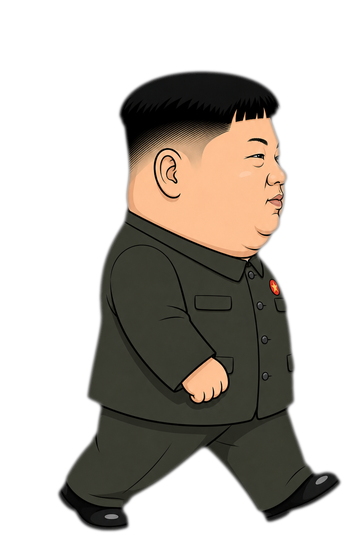
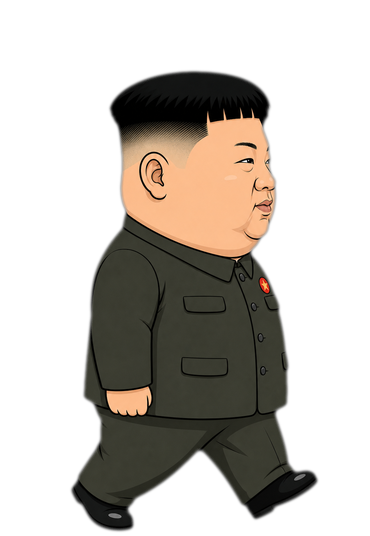
Marche en 4 frames avec pose de passage, rythme plus lent.
Évite le clignotement entre 2 images trop proches ; ancrage torse et walkPhase réseau discret.

diff --git a/src/01c-chars.js b/src/01c-chars.js
@@ -127,13 +127,12 @@ function charPickAnim(b) {
     return "receive";
   }
   if (charWantPanic(b) && charAnimReady(key, "panic")) return "panic";
-  // Marche avec hystérésis — évite idle↔walk qui clignote quand l'IA micro-ajuste.
-  // Slip (Trompette) : seuils plus collants + vx consigne (pas seulement dispVx).
+  // Marche avec hystérésis collante — évite idle↔walk qui clignote.
   const a = animOf(b);
   const disp = (a.slip && typeof b.dispVx === "number") ? b.dispVx : (b.vx || 0);
   const spd = Math.max(Math.abs(disp), a.slip ? Math.abs(b.vx || 0) * 0.85 : 0);
-  const enter = a.slip ? 0.35 : 0.75;
-  const exit = a.slip ? 0.08 : 0.25;
+  const enter = a.slip ? 0.30 : 0.55;
+  const exit = a.slip ? 0.06 : 0.15;
   if (b._walking) {
     if (spd < exit) b._walking = false;
   } else if (spd > enter) {
@@ -151,7 +150,7 @@ function charPickFrame(b, anim) {
   if (!frames || !frames.length) return null;
   let idx = 0;
   if (anim === "walk") {
-    // walkPhase entier (voir Blob.update) — cycle F/B/F/B dans les PNG
+    // walkPhase entier — cycle 4 frames : appui / passage / appui / passage
     idx = Math.floor(Math.abs(b.walkPhase || 0)) % frames.length;
   } else if (anim === "jump") {
     if (b.vy < -2) idx = 0;
@@ -224,18 +223,13 @@ function drawSpriteChar(b) {
   const lockAsp = pack.manifest && pack.manifest.lockAspect;
   const aspect = lockAsp || (img.naturalWidth / img.naturalHeight);
   const w = h * aspect * scaleX;
-  // Rebond de pas (lié au tick, walkPhase est entier)
-  const bob = (anim === "walk")
-    ? Math.abs(Math.sin(((b._walkTick || 0) / 4) * Math.PI)) * 2.5
-    : 0;
 
   ctx.save();
   ctx.translate(b.x, footY);
   if (!faceRight) ctx.scale(-1, 1);
-  // Centrer horizontalement dans la boîte lockAspect si l'image est plus étroite
   const natW = h * (img.naturalWidth / img.naturalHeight) * scaleX;
   const ox = -w / 2 + (w - natW) / 2;
-  ctx.drawImage(img, ox, -h + footPad - bob, natW, h);
+  ctx.drawImage(img, ox, -h + footPad, natW, h);
   ctx.restore();
   return true;
 }

diff --git a/src/15-net.js b/src/15-net.js
@@ -1127,7 +1127,8 @@ function guestApplyView() {
       const b1 = last.blobs[i]; if (!b1) return;
       b.x = b1.x + b1.vx * dt;
       b.y = b1.onGround ? b1.y : b1.y + b1.vy * dt + 0.5 * GRAV_BLOB * dt * dt;
-      b.walkPhase = b1.walkPhase + Math.abs(b1.vx) * 0.06 * dt;
+      // walkPhase = index de frame entier — ne pas extrapoler (sinon clignote)
+      b.walkPhase = b1.walkPhase;
       b.vx = b1.vx; b.onGround = b1.onGround; b.squash = b1.squash;
     });
     if (!ball.frozen) { ball.trail.push({ x: ball.x, y: ball.y }); if (ball.trail.length > 8) ball.trail.shift(); }
@@ -1152,7 +1153,8 @@ function guestApplyView() {
     if (!b0 || !b1) return;
     b.x = L(b0.x, b1.x);
     b.y = L(b0.y, b1.y);
-    b.walkPhase = L(b0.walkPhase, b1.walkPhase);
+    // Frame de marche discrète (lerp float → clignotement entre 2 images proches)
+    b.walkPhase = a < 0.5 ? b0.walkPhase : b1.walkPhase;
     b.vx = b1.vx; b.onGround = b1.onGround; b.squash = b1.squash;
   });
 

diff --git a/src/12-menus.js b/src/12-menus.js
@@ -329,9 +329,9 @@ function tickMenuActors() {
     if (b.x >= b.maxX) { b.x = b.maxX; b.dispVx = -Math.abs(b.dispVx); }
     b.vx = b.dispVx; // pour orientation sprite (charFaceRight)
     b._faceRight = b.dispVx >= 0;
-    // Même rythme qu'en jeu : 1 frame / 4 ticks → pas F/B visibles
+    // Même rythme qu'en jeu : 1 frame / 8 ticks (appui → passage → …)
     b._walkTick = (b._walkTick || 0) + 1;
-    if (b._walkTick % 4 === 0) b.walkPhase += 1;
+    if (b._walkTick % 8 === 0) b.walkPhase += 1;
     b.hopT--;
     if (b.hopT <= 0 && b.onGround) {
       b.vy = -4.2; b.onGround = false; b.hopT = 140 + Math.floor(Math.random() * 180);

diff --git a/src/04-state.js b/src/04-state.js
@@ -285,9 +285,9 @@ class Blob {
     if (wantWalk) {
       const scrambling = a.slip;
       this.scramble = scrambling ? 1 : 0;
-      // Compteur entier : 1 frame toutes les 4 ticks → alternance F/B lisible
+      // Cycle 4 frames (appui → passage → appui → passage) : 1 frame / 8 ticks
       this._walkTick = (this._walkTick || 0) + 1;
-      if (this._walkTick % 4 === 0) this.walkPhase += 1;
+      if (this._walkTick % 8 === 0) this.walkPhase += 1;
       if (Math.random() < (scrambling ? 0.35 : 0.1)) {
         spawnSand(this.x - Math.sign(this.vx || moveVx) * 12, GROUND_Y, 1);
       }
